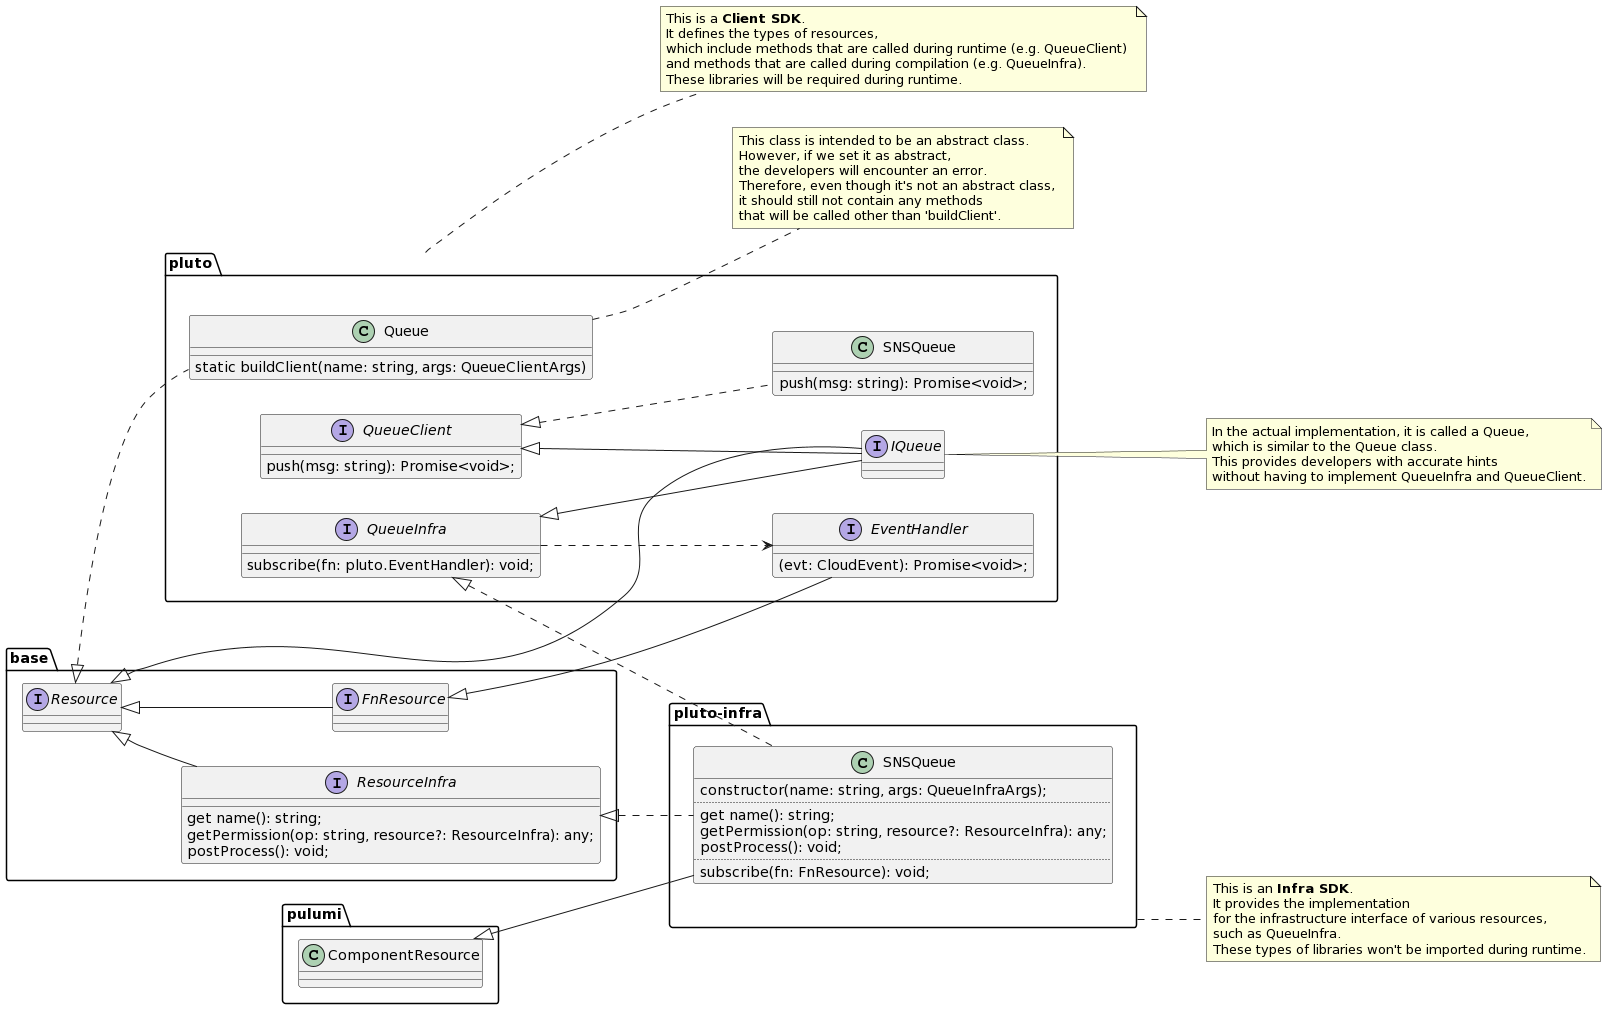
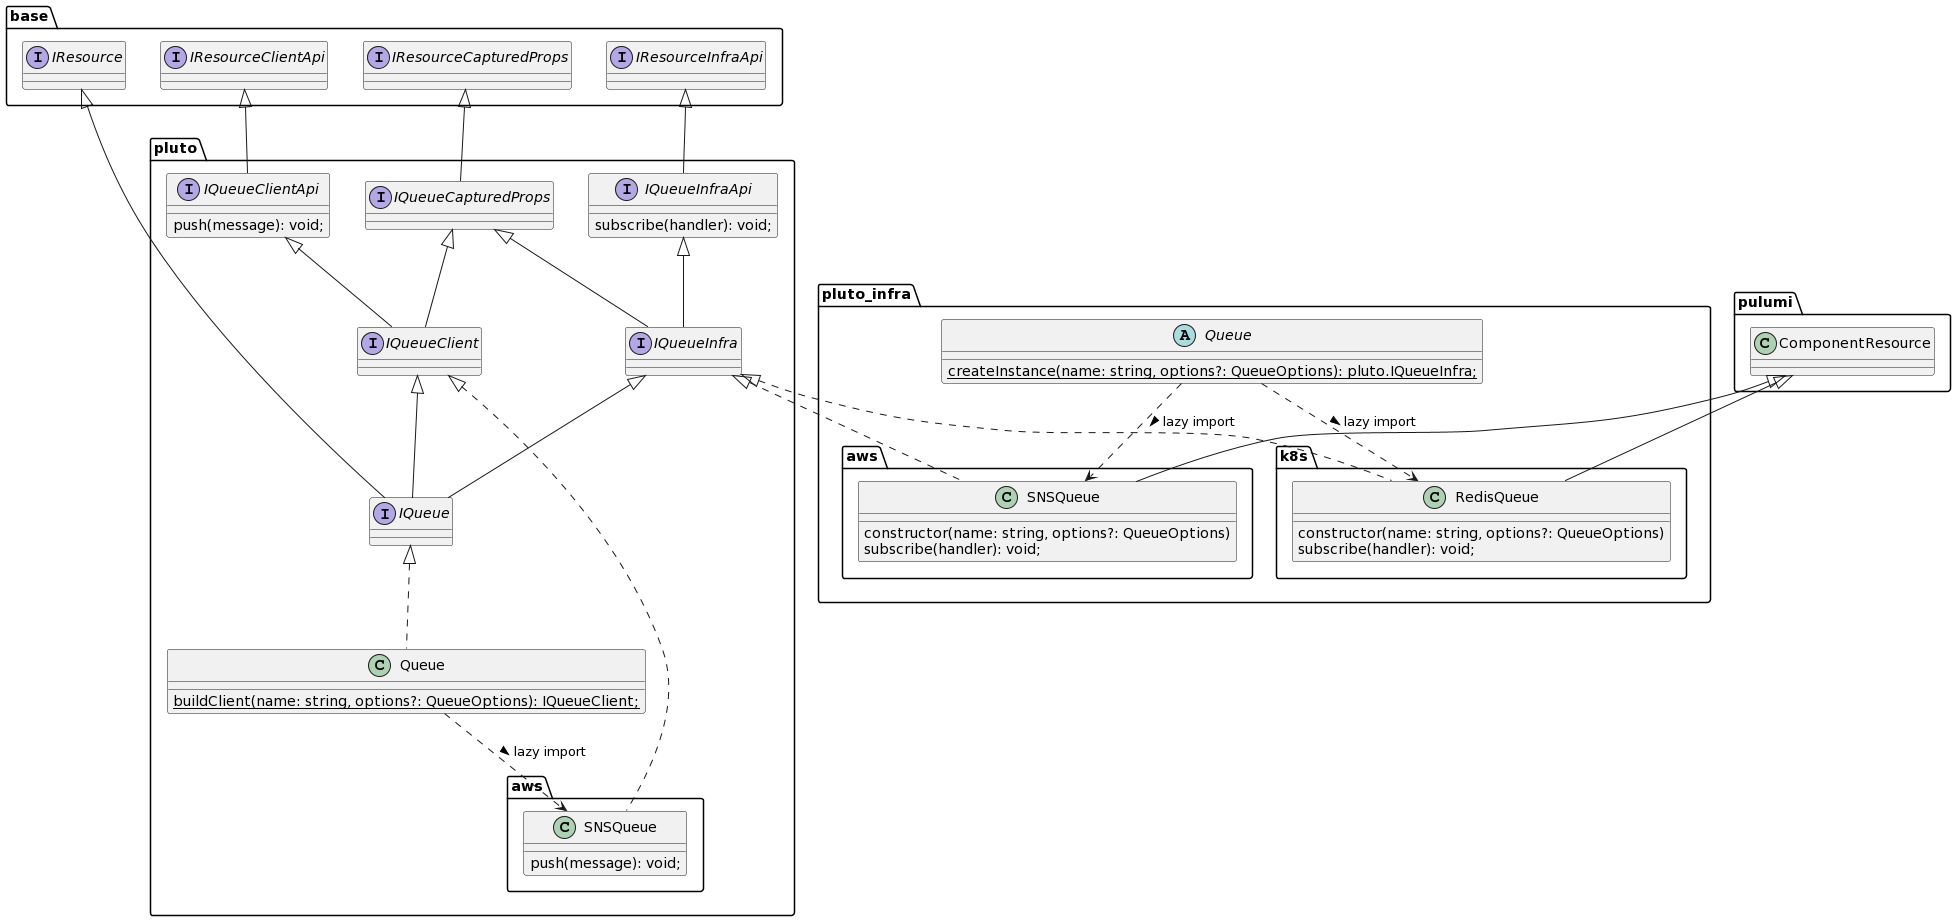
chore(doc): update the doc about extending sdk

Changed region(s): [[0.0, 0.1216, 1.0, 1.0], [0.0, 0.0, 0.7156, 0.1216], [0.7467, 0.8512, 1.0, 0.9729]]

diff --git a/docs/dev_guide/extend-sdk.en.md b/docs/dev_guide/extend-sdk.en.md
@@ -10,6 +10,7 @@ If you encounter any unclear concepts or unexplained terms in this document, ple
   - Define two types of functional interfaces in the Client SDK:
     - An interface for defining runtime functionality methods, called the Client Interface.
     - An interface for defining infrastructure-related methods, called the Infra Interface.
+    - An interface that includes attributes generated at compile-time and accessed at runtime, referred to as a Prop Interface.
   - Define a resource operation interface in the Client SDK to expose the functionality methods for the resource.
 - Adding a new implementation for the resource type
   - Create a class implementation for the Client Interface in the Client SDK and bind it through the `buildClient` method of the resource type.
@@ -29,7 +30,7 @@ The methods defined in the Client Interface are the runtime functional methods t
 
 ```typescript
 // The client interface is used to define the methods for accessing resources that are used during runtime.
-export interface QueueClient {
+export interface IQueueClientApi extends base.IResourceClientApi {
   push(msg: string): Promise<void>;
 }
 ```
@@ -41,14 +42,12 @@ The methods defined in the Infra Interface are used to build resource associatio
 As a message queue, the Queue usually allows creating a subscriber to consume the messages published in the Queue. The method for creating a subscriber is called `subscribe`. The `subscribe` method takes an `EventHandler` type object as a parameter. The `EventHandler` type is a function type interface that inherits the `base.FnResource` interface, indicating that the `EventHandler` type is a FaaS resource type.
 
 ```typescript
-import { FnResource } from "@plutolang/base";
-
 // The infra interface is used to define the methods for accessing resources that are used during compilation.
-export interface QueueInfra {
+export interface IQueueInfraApi extends base.IResourceInfraApi {
   subscribe(fn: EventHandler): void;
 }
 
-export interface EventHandler extends FnResource {
+export interface EventHandler extends base.FnResource {
   (evt: CloudEvent): Promise<void>;
 }
 
@@ -58,7 +57,15 @@ export interface CloudEvent {
 }
 ```
 
-### Define the resource operation interface exposed to users
+### Define the Prop Interface
+
+The property interface defines a set of getter methods. The values corresponding to these methods cannot be obtained solely based on the data provided by the user. For instance, the URL of a router in apigateway can only be known after deployment. Currently, Queue does not have such requirements, hence it is empty.
+
+```typescript
+export interface IQueueCapturedProps extends base.IResourceCapturedProps {}
+```
+
+### Define the Resource Operation Interface Exposed to Users
 
 The resource operation interface exposed to users consists of a pair of classes and interfaces with the same name. The interface inherits both the client interface and the infrastructure interface, while the class only defines the constructor and a static `buildClient` method. This leverages the TypeScript feature of type merging, allowing the class to provide sufficient hints to developers even though it does not implement the interface methods.
 
@@ -68,7 +75,10 @@ Here, the resource class should be treated as an equivalent of an abstract class
 import { Resource, runtime } from "@plutolang/base";
 import { aws, k8s } from "./clients";
 
-export class Queue implements Resource {
+export type IQueueClient = IQueueCapturedProps & IQueueClientApi;
+export type IQueueInfra = IQueueCapturedProps & IQueueInfraApi;
+
+export class Queue {
   constructor(name: string, opts?: QueueOptions) {
     name;
     opts;
@@ -77,7 +87,7 @@ export class Queue implements Resource {
     );
   }
 
-  public static buildClient(name: string, opts?: QueueClientOptions): QueueClient {
+  public static buildClient(name: string, opts?: QueueClientOptions): IQueueClient {
     const rtType = process.env["RUNTIME_TYPE"];
     switch (rtType) {
       case runtime.Type.K8s:
@@ -88,7 +98,7 @@ export class Queue implements Resource {
   }
 }
 
-export interface Queue extends QueueInfra, QueueClient, Resource {}
+export interface Queue extends IQueueClient, IQueueInfra, IResource {}
 
 export interface QueueInfraOptions {}
 export interface QueueClientOptions {}
@@ -101,18 +111,18 @@ export interface QueueOptions extends QueueInfraOptions, QueueClientOptions {}
 
 In the `src/clients/aws` directory of `@plutolang/pluto`, create an `snsQueue.ts` file. The file and the class it contains are usually named after the component and the type.
 
-In this file, the `SNSQueue` class implements the `QueueClient` interface using the AWS SDK. When calling the `PublishCommand` in the aws-sdk, the ARN of the SNS topic needs to be specified. Here, the ARN is constructed by concatenating the required parameters obtained from the environment variables, which are set in the aws `runtime.ts` of `@plutolang/pluto-infra`.
+In this file, the `SNSQueue` class implements the `IQueueClient` interface using the AWS SDK. When calling the `PublishCommand` in the aws-sdk, the ARN of the SNS topic needs to be specified. Here, the ARN is constructed by concatenating the required parameters obtained from the environment variables, which are set in the aws `runtime.ts` of `@plutolang/pluto-infra`.
 
 _Currently, there is no effective solution on how to transfer the information generated during compilation to the runtime for effective use._
 
 ```typescript
 import { SNSClient, PublishCommand } from "@aws-sdk/client-sns";
-import { CloudEvent, QueueClient, QueueClientOptions } from "../../queue";
+import { CloudEvent, IQueueClient, QueueClientOptions } from "../../queue";
 
 /**
  * Implementation of Queue using AWS SNS.
  */
-export class SNSQueue implements QueueClient {
+export class SNSQueue implements IQueueClient {
   private topicName: string;
   private client: SNSClient;
 
@@ -155,7 +165,7 @@ After implementing the `SNSQueue` class, it needs to be created at runtime based
 
 ```typescript
 ...
-public static buildClient(name: string, opts?: QueueClientOptions): QueueClient {
+  public static buildClient(name: string, opts?: QueueClientOptions): IQueueClient {
     const rtType = process.env["RUNTIME_TYPE"];
     switch (rtType) {
       case runtime.Type.AWS:
@@ -165,12 +175,67 @@ public static buildClient(name: string, opts?: QueueClientOptions): QueueClient 
       default:
         throw new Error(`not support this runtime '${rtType}'`);
     }
+  }
 ...
+```
+
+### Create an Abstract Base Class for the Infrastructure Implementation Class
+
+In the `src/` directory of `@plutolang/pluto-infra`, create a file named `queue.ts`. In this file, define the interfaces that the base class needs to implement. Also, define an abstract class for instantiating specific implementation classes based on platform and engine. The example below uses lazy loading to import corresponding specific instances, reducing library load time.
+
+When implementing, it's important to note that the parameters of the constructor for implementation classes and Queue's static method `createInstance` should be consistent with those of Client's constructor.
+
+```typescript
+import { engine, runtime, utils } from "@plutolang/base";
+import { IQueueInfra QueueOptions } from "@plutolang/pluto";
+import { ImplClassMap } from "./utils";
+
+// Construct a type for a class constructor. The key point is that the parameters of the constructor
+// must be consistent with the client class of this resource type. Use this type to ensure that
+// all implementation classes have the correct and same constructor signature.
+type QueueInfraImplClass = new (name: string, options?: QueueOptions) => IQueueInfra;
+
+// Construct a map that contains all the implementation classes for this resource type.
+// The final selection will be determined at runtime, and the class will be imported lazily.
+const implClassMap = new ImplClassMap<IQueueInfra, QueueInfraImplClass>({
+  [engine.Type.pulumi]: {
+    [runtime.Type.AWS]: async () => (await import("./aws")).SNSQueue,
+    [runtime.Type.K8s]: async () => (await import("./k8s")).RedisQueue,
+  },
+});
+
+/**
+ * This is a factory class that provides an interface to create instances of this resource type
+ * based on the target platform and engine.
+ */
+export abstract class Queue {
+  /**
+   * Asynchronously creates an instance of the queue infrastructure class. The parameters of this function
+   * must be consistent with the constructor of both the client class and infrastructure class associated
+   * with this resource type.
+   */
+  public static async createInstance(name: string, options?: QueueOptions): Promise<IQueueInfra> {
+    // TODO: ensure that the resource implementation class for the simulator has identical methods as those for the cloud.
+    if (
+      utils.currentPlatformType() === runtime.Type.Simulator &&
+      utils.currentEngineType() === engine.Type.simulator
+    ) {
+      return new (await import("./simulator")).SimQueue(name, options) as any;
+    }
+
+    return implClassMap.createInstanceOrThrow(
+      utils.currentPlatformType(),
+      utils.currentEngineType(),
+      name,
+      options
+    );
+  }
+}
 ```
 
 ### Create an Infrastructure Implementation Class
 
-In the `src/aws` directory of `@plutolang/pluto-infra`, create an `snsQueue.ts` file. The file and the class it contains are usually named after the component and the type. In this file, the `SNSQueue` class needs to implement the `ResourceInfra` and `QueueInfra` interfaces. Typically, the creation process of the main components is defined in the constructor, and the association with other resources is built in other methods. Note that the operation names in `getPermission` should correspond to the functions in the client interface.
+In the `src/aws` directory of `@plutolang/pluto-infra`, create an `snsQueue.ts` file. The file and the class it contains are usually named after the component and the type. In this file, the `SNSQueue` class needs to implement the `ResourceInfra` and `IQueueInfra` interfaces. Typically, the creation process of the main components is defined in the constructor, and the association with other resources is built in other methods. Note that the operation names in `getPermission` should correspond to the functions in the client interface.
 
 Currently, Pluto supports implementation based on Pulumi and will support more IaC tools in the future.
 
@@ -178,7 +243,7 @@ Currently, Pluto supports implementation based on Pulumi and will support more I
 import * as aws from "@pulumi/aws";
 import * as pulumi from "@pulumi/pulumi";
 import { Resource, ResourceInfra } from "@plutolang/base";
-import { QueueInfra, QueueInfraOptions } from "@plutolang/pluto/dist/queue";
+import { IQueueInfra, QueueInfraOptions } from "@plutolang/pluto";
 import { Lambda } from "./lambda";
 import { Permission } from "./permission";
 
@@ -186,7 +251,7 @@ export enum SNSOps {
   PUSH = "push",
 }
 
-export class SNSQueue extends pulumi.ComponentResource implements ResourceInfra, QueueInfra {
+export class SNSQueue extends pulumi.ComponentResource implements ResourceInfra, IQueueInfra {
   readonly name: string;
   public readonly topic: aws.sns.Topic;
 
@@ -257,10 +322,17 @@ export class SNSQueue extends pulumi.ComponentResource implements ResourceInfra,
 }
 ```
 
-After implementing the `SNSQueue` class, it needs to be registered to the registry in order to instantiate the corresponding implementation class for the target platform during deployment. In the `src/aws/index.ts` of `@plutolang/pluto-infra`, export this class and add the following statement in the `register` method of `src/index.ts` to register it:
+After implementing the `SNSQueue` class, it needs to be registered to the abstract base class of `Queue`. In the `src/queue.ts` of `@plutolang/pluto-infra`, add the following statement to the `implClassMap` variable:
 
-```typescript
-reg.register(runtime.Type.AWS, engine.Type.pulumi, Queue, aws.SNSQueue);
+the registry in order to instantiate the corresponding implementation class for the target platform during deployment. In the `src/aws/index.ts` of `@plutolang/pluto-infra`, export this class and add the following statement in the `register` method of `src/index.ts` to register it:
+
+```typescript {3}
+const implClassMap = new ImplClassMap<IQueueInfra, QueueInfraImplClass>({
+  [engine.Type.pulumi]: {
+    [runtime.Type.AWS]: async () => (await import("./aws")).SNSQueue,
+    [runtime.Type.K8s]: async () => (await import("./k8s")).RedisQueue,
+  },
+});
 ```
 
 With this, the extension of the BaaS resource type is completed.
@@ -271,6 +343,6 @@ Not all resources have both the Client Interface and the Infra Interface.
 
 For example, the Router resource only has the Infra Interface and does not have the Client Interface, meaning the Router type does not have any functional methods for the compute module to call during runtime.
 
-The KVStore resource only has the Client Interface and does not have the Infra Interface, indicating that the Router type currently does not have the need to establish triggering associations with other resources.
+The KVStore resource only has the Client Interface and does not have the Infra Interface, indicating that the KVStore type currently does not have the need to establish triggering associations with other resources.
 
 It is important to note that whether there is an Infra Interface or not, if it's a type of cloud resource, there needs to be an infrastructure implementation class that completes the resource creation in its constructor.

diff --git a/docs/documentation/concepts/sdk.en.md b/docs/documentation/concepts/sdk.en.md
@@ -18,12 +18,18 @@ In Pluto, there are two types of SDKs related to the cloud platform. These two S
 
 The `@plutolang/base` library contains three basic interfaces:
 
-1. Resource: Indicates that the class or interface is related to cloud resources. During compilation, whether an instantiated object's type implements this interface is used to determine if it is a cloud resource.
-2. FnResource: Indicates that the class or interface is related to FaaS resources. During compilation, whether a function type inherits this interface is used to determine if the function is an instance of FaaS resource.
-3. ResourceInfra: This interface must be implemented by infrastructure implementation classes. It is used to complete the creation of infrastructure components.
+1. **IResource**: Indicates that the class or interface is related to cloud resources. During compilation, whether an instantiated object's type implements this interface is used to determine if it is a cloud resource.
+2. **FnResource**: Indicates that the class or interface is related to FaaS resources. During compilation, whether a function type inherits this interface is used to determine if the function is an instance of FaaS resource.
+3. **ResourceInfra**: This interface must be implemented by infrastructure implementation classes. It is used to complete the creation of infrastructure components.
    - `get name()`: Retrieves the basic name of the resource object, which may be different from the name of the created resource instance.
    - `getPermission()`: Generates the necessary permissions for calling specific operations on itself.
    - `postProcess()`: Some operations need to be performed only after all configuration processes are completed. These operations are placed in this function. For example, AWS ApiGateway needs to configure Deployment and Stage after setting up all routes.
+4. **IResourceCapturedProps**: This interface should be extended within both the client implementaion and infrastructure implementation of a resource type. It contains some getter methods that defines the properties of the resource, which are generated at compile time and will be obtained during runtime. More details can be found in [this design document](../design/capture-value.en.md).
+   - For instance, the URL of a Router resource.
+5. **IResourceClientApi**: This interface should be extended within the client implementation of a resource type. It contains several methods that can be called during runtime. Typically, these methods represents the function provided by the platform's specific resource type.
+   - For instance, the `push` method of message queue is used to publish a message to the message queue during runtime.
+6. **IResourceInfraAPi**：This interface should be extended within the infrastructure implementation of a resource type. It contains several methods that can be called at compile time. Typically, these methods are employed to establish the connections between resources.
+   - For instance, methods such as Get and Post of the Router type are used to define the relationship between a Router resource object and a FaaS resource object.
 
 If you're looking to extend the SDKs, check out [this document](../../dev_guide/extend-sdk.en.md).
 

diff --git a/docs/documentation/concepts/sdk.zh-CN.md b/docs/documentation/concepts/sdk.zh-CN.md
@@ -13,14 +13,20 @@
   - 在构造方法中完成资源创建的过程，例如在 `pluto-infra.SNSQueue` 中进行 AWS SNS 组件的定义。
   - 在类方法中实现资源间的关联，例如 `pluto-infra.SNSQueue` 的 `subscribe` 中通过触发器构建 SNS 与 Lambda 之间的关联。
 
-在 `@plutolang/base` 库中包含三个基本接口：
+在 `@plutolang/base` 库中包含几个基本接口：
 
-- Resource：表明该类或接口与云资源相关，在编译时，通过查看开发者实例化对象的类型是否实现该接口来判断是否是云资源。
-- FnResource：表明该类或接口与 FaaS 资源相关，在编译时，通过查看函数类型是否继承该接口来判断该函数是否是 FaaS 资源实例。
-- ResourceInfra：基础设施实现类时必须实现的接口，用于完成基础设施组件的创建。
+- **IResource**：表明该类或接口与云资源相关，在编译时，通过查看开发者实例化对象的类型是否实现该接口来判断是否是云资源。
+- **FnResource**：表明该类或接口与 FaaS 资源相关，在编译时，通过查看函数类型是否继承该接口来判断该函数是否是 FaaS 资源实例。
+- **ResourceInfra**：基础设施实现类时必须实现的接口，用于完成基础设施组件的创建。
   - `get name()`：获取资源对象的基本名称，可能与创建的资源实例的名称不同。
   - `getPermission()`: 用于生成调用自身特定操作时所需的权限。
   - `postProcess()`: 存在某些操作需要待所有配置过程完成后再开始进行，将该类操作放置在函数中。例如，AWS 的 ApiGateway 需要在配置完所有路由后，再配置 Deployment 和 Stage。
+- **IResourceCapturedProps**：资源类型实例化后获得资源对象，资源对象提供用户可访问的属性值，即为资源的属性。
+  - 例如，Router 资源的 URL。
+- **IResourceClientApi**：资源类型提供给用户在运行时使用的一组功能接口。
+  - 例如，消息队列类型的 push 方法，用于在运行时向消息队列发布消息。
+- **IResourceInfraAPi**：资源类型提供用户用于指明资源间关系的一组功能接口。
+  - 例如，Router 类型的 Get、Post 等方法，用于指定一个 Router 资源对象与 Handler 对应的 FaaS 资源对象之间的关系。
 
 如果你想扩展 SDK，请参考[这篇文档](../../dev_guide/extend-sdk.zh-CN.md).
 

diff --git a/docs/documentation/design/capture-value.en.md b/docs/documentation/design/capture-value.en.md
@@ -3,7 +3,9 @@ title: Runtime Access to Values Generated by Infrastructure Code at Compile Time
 date: 2024-01-08
 ---
 
-Pluto programs are split into multiple functions at compile time, which are then deployed to cloud platforms by [adapters](../concepts/adapter.zh-CN.md). The most common deployment method is: a set of infrastructure definition code (hereafter referred to as IaC code) is generated by the [generator](../concepts/generator.zh-CN.md), and then the adapter executes the IaC code using the corresponding IaC engine. Alternatively, for runtime environments that do not support IaC engines (such as local simulation environments), the adapter may directly call the APIs of the runtime environment to build the infrastructure environment and deploy all functions of the Pluto program based on the architecture reference.
+# Runtime Access to Values Generated by Infrastructure Code at Compile Time
+
+Pluto programs are split into multiple functions at compile time, which are then deployed to cloud platforms by [adapters](../concepts/adapter.en.md). The most common deployment method is: a set of infrastructure definition code (hereafter referred to as IaC code) is generated by the [generator](../concepts/generator.en.md), and then the adapter executes the IaC code using the corresponding IaC engine. Alternatively, for runtime environments that do not support IaC engines (such as local simulation environments), the adapter may directly call the APIs of the runtime environment to build the infrastructure environment and deploy all functions of the Pluto program based on the architecture reference.
 
 After a Pluto program is deployed, the deployed function instances access certain methods or properties of resource objects at runtime to interact with resource instances. However, the values of resource object properties may be returned by the platform after executing the IaC code or calling the runtime environment API, such as the URL of ApiGateway. These property values cannot be obtained based solely on the information provided by the user in the program. Therefore, a mechanism needs to be built to allow runtime functions to access values generated by infrastructure code at compile time.
 

diff --git a/docs/documentation/design/capture-value.zh-CN.md b/docs/documentation/design/capture-value.zh-CN.md
@@ -3,6 +3,8 @@ title: 运行时函数访问基础设施代码在编译时生成的值
 date: 2024-01-08
 ---
 
+# 运行时函数访问基础设施代码在编译时生成的值
+
 Pluto 程序在编译时会被拆分成多个函数，然后由[适配器](../concepts/adapter.zh-CN.md)部署到云平台上。第一种部署方式，也是最常用的部署方式就是：先由[生成器](../concepts/generator.zh-CN.md)生成一份基础设施定义代码（下称 IaC 代码），然后由适配器调用相应 IaC 引擎执行 IaC 代码。其次，第二种部署方式是：针对不支持 IaC 引擎的运行时环境（如本地模拟环境），适配器可能会采用根据参考架构直接调用运行时环境的 API，来构建基础设施环境，部署 Pluto 程序的所有函数。
 
 Pluto 程序被部署后，所部署的函数实例会在运行时访问资源对象的一些方法或属性，来与资源实例交互。但是，资源对象属性的值可能是在执行 IaC 代码或调用运行时环境 API 后，运行时环境返回的值，如 ApiGateway 的 URL。仅凭用户在程序中提供的信息无法获取到这些属性值。因此，需要构建一个机制来使得基础设施代码在编译时生成的值能够被运行时函数访问到。
